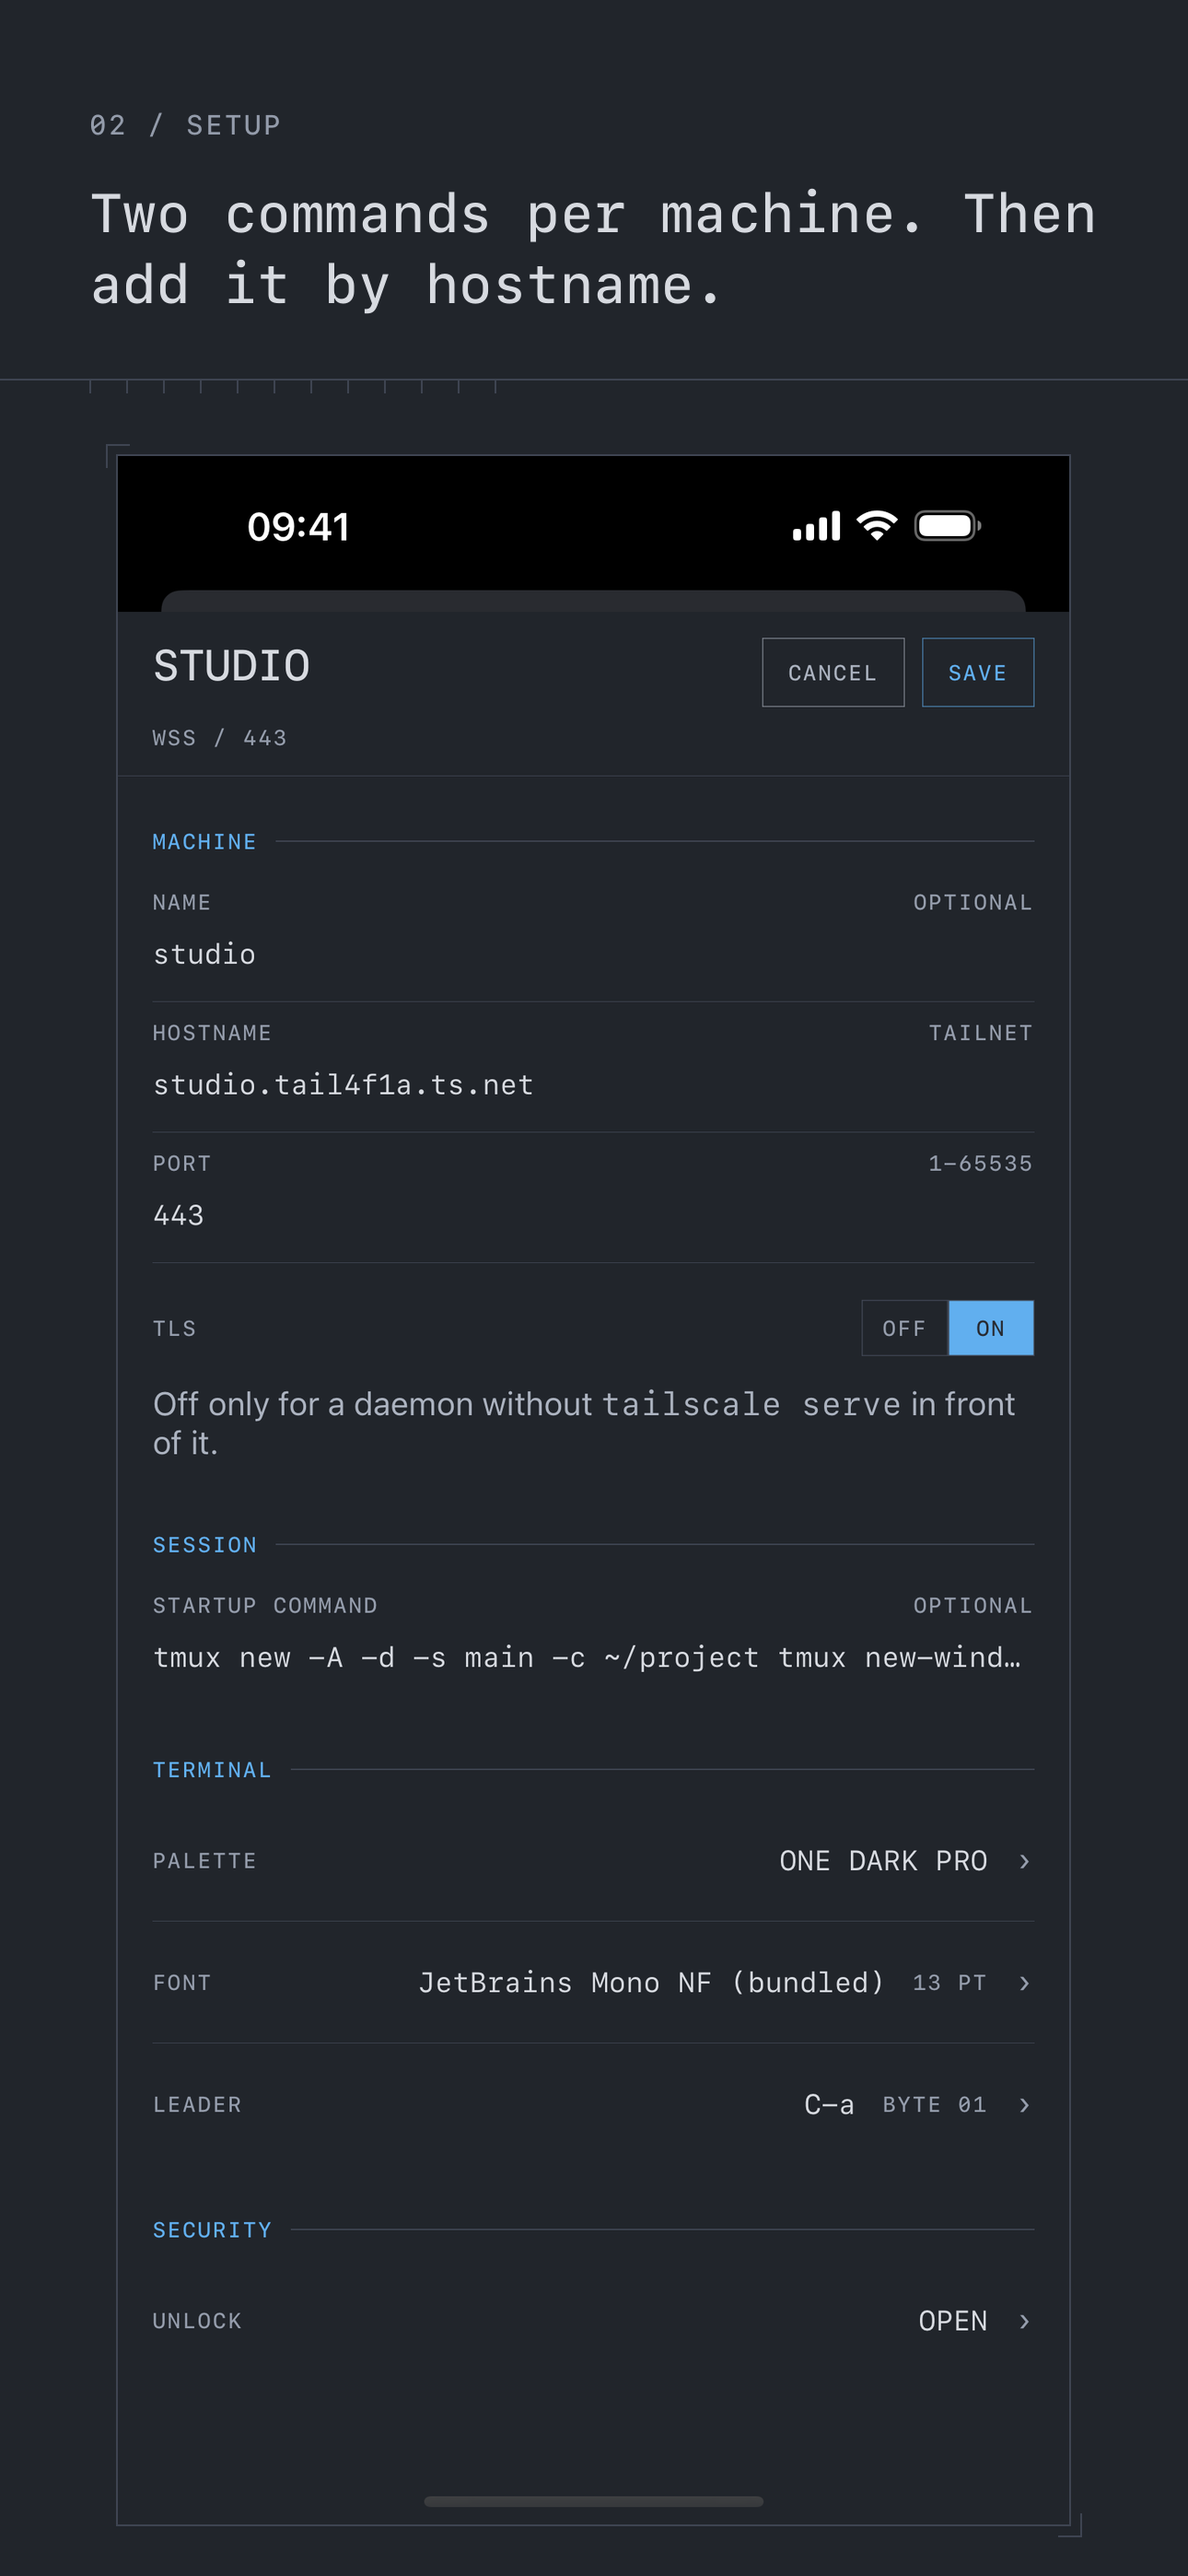
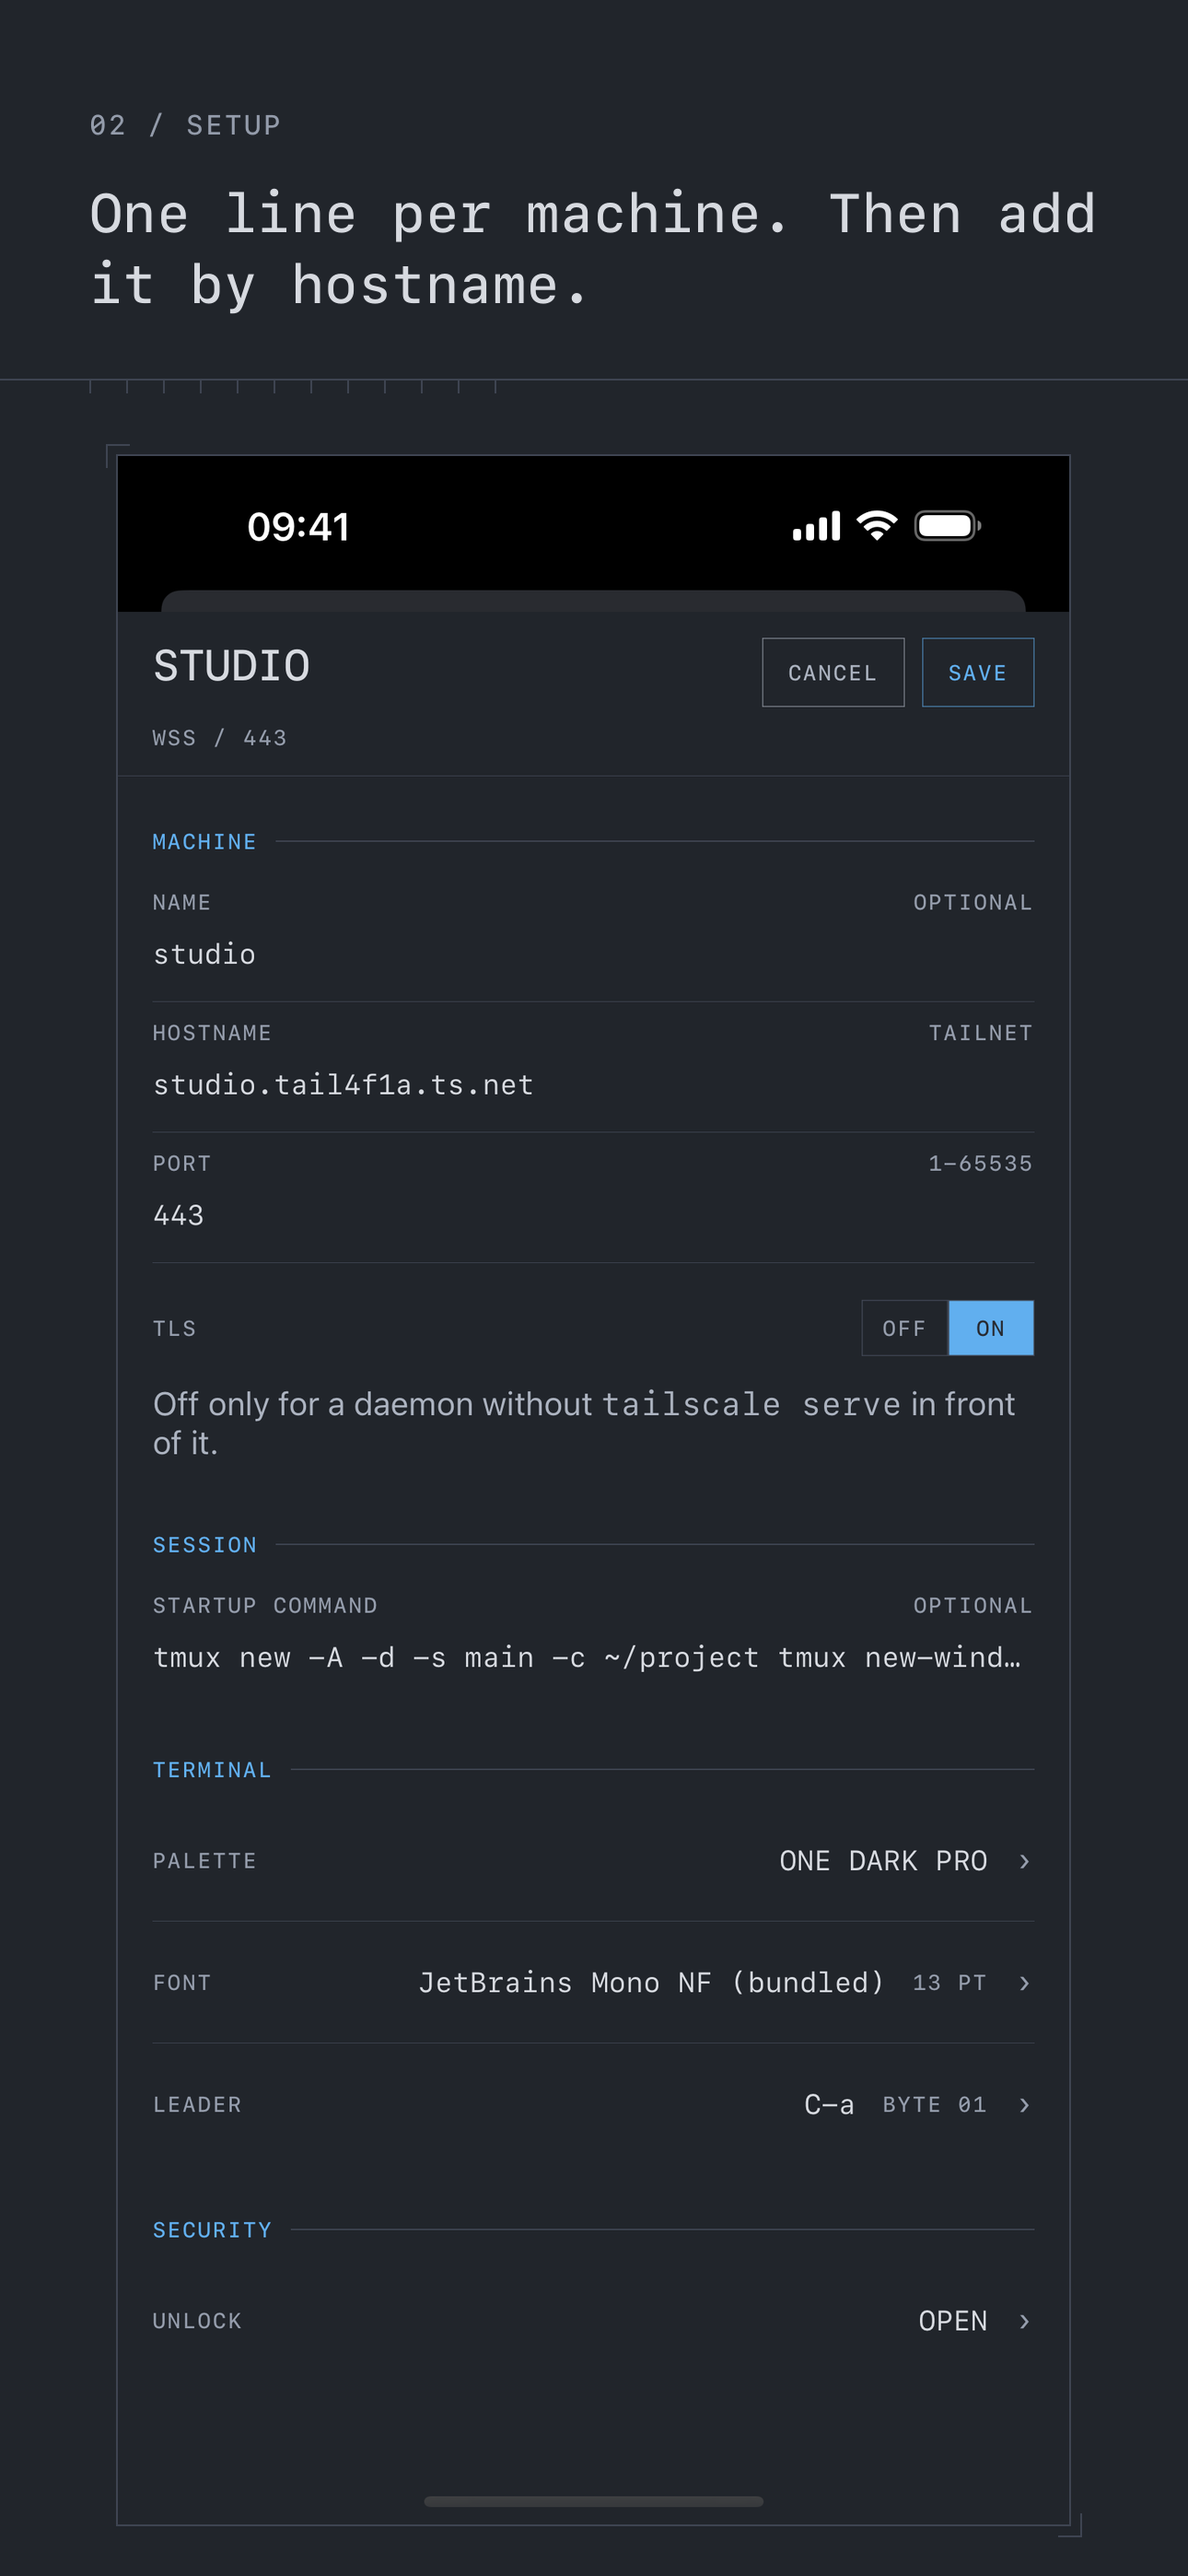
listing 1.5: lead with checking on builds and agents from the phone
All 10 locales: new section and promo text, What's New for 1.5, and no
dollar amount in the description so it cannot go stale. Captions 01/02
for iPhone and Duo (en-US, ko) recomposed; 02 now says one line per
machine. Docs record the $6.99 unlock from 1.5.

Changed region(s): [[0.4031, 0.0622, 0.8992, 0.1245], [0.062, 0.0622, 0.3721, 0.1245], [0.3721, 0.0622, 0.4031, 0.0933]]

diff --git a/CHANGELOG.md b/CHANGELOG.md
@@ -9,12 +9,21 @@ project adheres to [Semantic Versioning](https://semver.org/spec/v2.0.0.html).
 
 ### Added
 
+- iOS 1.5: after three sessions that each held a live shell for a minute, closing the terminal
+  offers the system rating prompt, once per version and only while the trial or unlock is
+  active. Screenshot runs never trigger it.
 - iOS 1.4: first-run setup finishes itself. One pasteable line installs and starts the daemon;
   the app then asks the typed machine name every few seconds and opens the terminal as soon as
   the daemon answers, or shows `landlined allow` when it answers with 403.
 - iOS 1.4: the host list counts down the trial, and two local notifications (48 and 24 hours
   before the end, local price, switchable on the paywall) remind before it ends. The paywall
   leads with "One-time purchase. No subscription." and the ended screen has one unlock action.
+
+### Changed
+
+- iOS 1.5: the one-time unlock is $6.99 USD (was $2.99). The App Store description no longer
+  states a dollar amount, so it cannot go stale. Listing copy and the first two screenshot
+  captions lead with checking on a build or coding agent from the phone.
 
 ### Fixed
 

diff --git a/README.md b/README.md
@@ -5,7 +5,7 @@
 A fixed, private, direct line to every machine you own. Terminal on your iPhone, over your own tailnet.
 
 **[Get Landline on the App Store](https://apps.apple.com/app/id6808344753)**: free for seven days, then
-$2.99 once. No subscription. The daemon is free and MIT licensed.
+$6.99 once. No subscription. The daemon is free and MIT licensed.
 
 [![ci](https://img.shields.io/github/actions/workflow/status/mhrsntrk/landline/ci.yml?branch=main&label=ci)](https://github.com/mhrsntrk/landline/actions/workflows/ci.yml)
 [![license](https://img.shields.io/badge/license-MIT-blue)](LICENSE)
@@ -59,7 +59,8 @@ no certificate pinning code anywhere in the client.
 ### Trial and purchase
 
 Version 1.1 introduces a free download and a seven-day trial of every terminal
-feature, followed by an optional **$2.99 USD one-time unlock**. Prices in other
+feature, followed by an optional one-time unlock: **$6.99 USD** from version 1.5, $2.99
+USD before it. Prices in other
 regions come from the App Store. There is no subscription or automatic charge.
 The trial starts when you choose **Start 7-day free trial**, not when you install.
 

diff --git a/docs/SCOPE.md b/docs/SCOPE.md
@@ -320,7 +320,7 @@ The authoritative list is the table in `README.md`; this block is here to show t
 **MIT across the whole repo**, agent and iOS client alike.
 
 The App Store model from iOS version 1.1 is a free download, a seven-day full-access
-trial, and an optional $2.99 USD one-time unlock. There is no subscription or automatic
+trial, and an optional one-time unlock ($6.99 USD from iOS 1.5, $2.99 USD before it). There is no subscription or automatic
 charge. Existing App Store users keep full access. The trial begins with an explicit
 free non-consumable purchase; Apple supplies the original date and localized unlock
 price. See `appstore/purchases.md` for the release status and receipt migration.

diff --git a/appstore/purchases.md b/appstore/purchases.md
@@ -22,7 +22,7 @@ the download and the full unlock. This verification did not change live settings
 | Product | ID | Type | US base price |
 | --- | --- | --- | --- |
 | 7-day Trial | `com.landlineclient.app.trial7days` | Non-consumable | $0.00 |
-| Unlock Landline | `com.landlineclient.app.fullUnlock` | Non-consumable | $2.99 |
+| Unlock Landline | `com.landlineclient.app.fullUnlock` | Non-consumable | $6.99 from 1.5 ($2.99 before) |
 
 Both products have saved English and Korean names/descriptions, availability in
 all 175 existing app territories, automatic availability in future territories,
